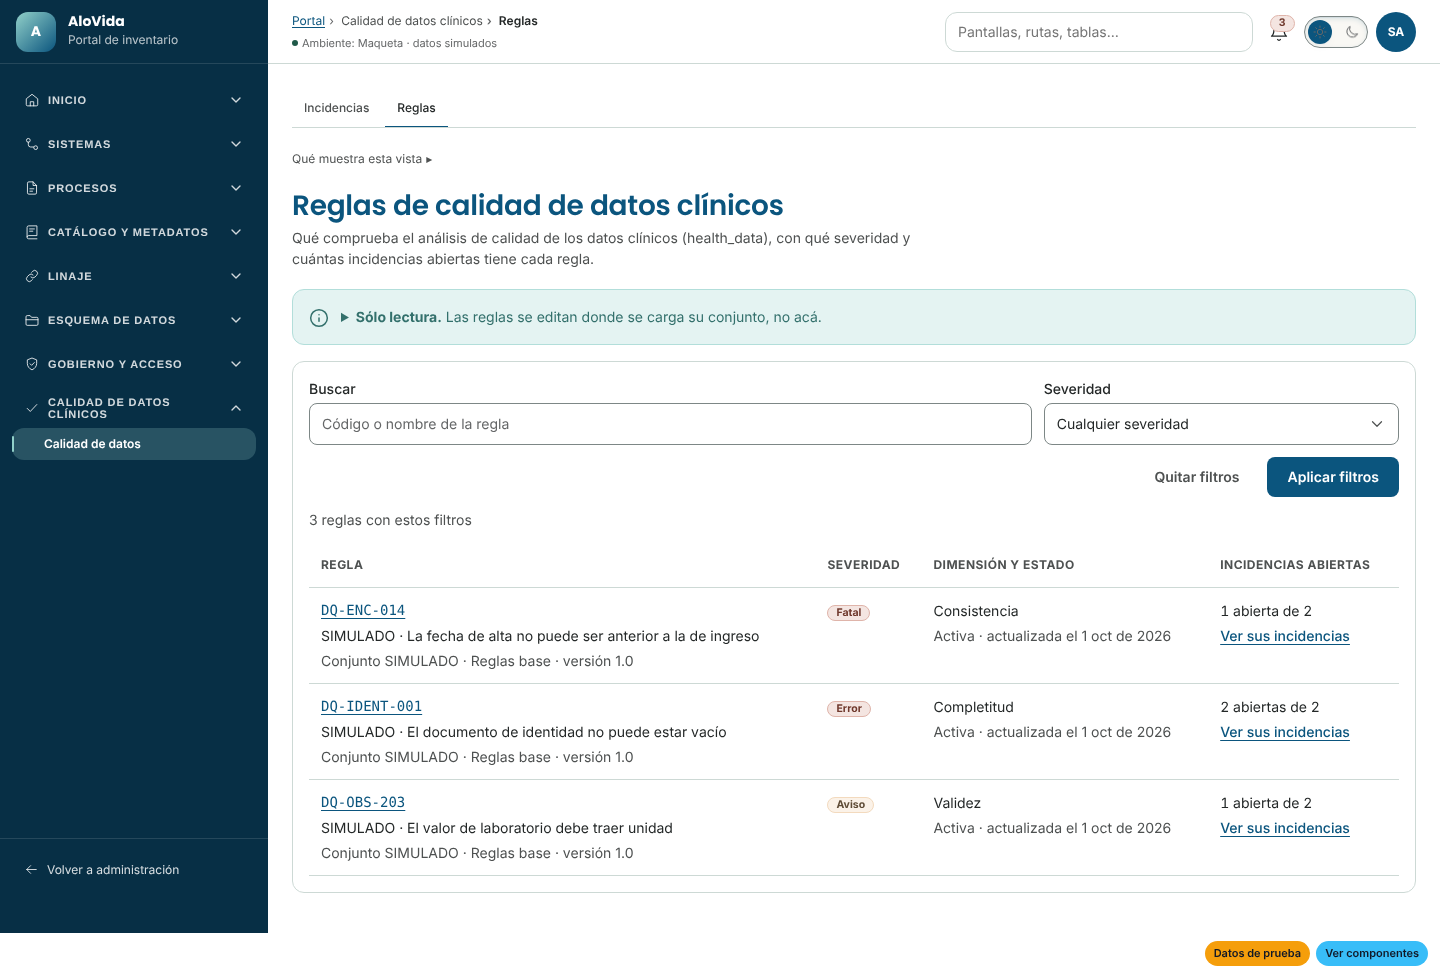
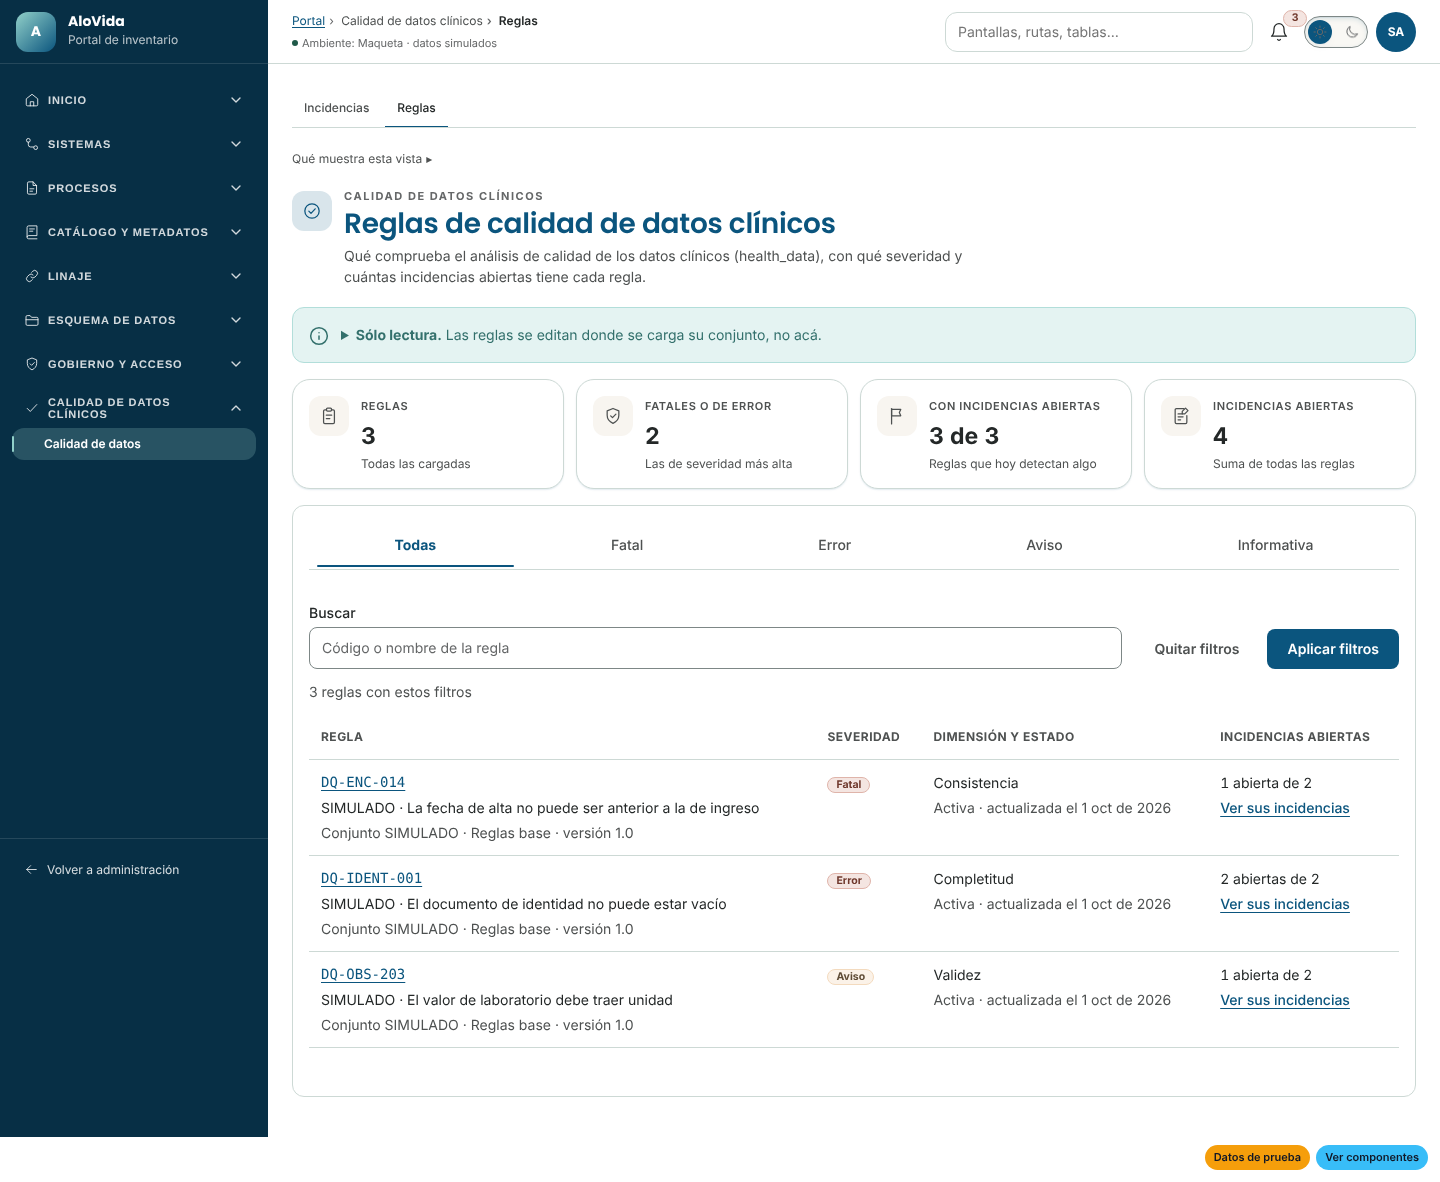
fix(portal): reglas de calidad — pestañas por severidad (escriben el mismo parámetro de la URL) y cifras sólo si la respuesta trae todas las reglas; ficha recapturada (revisión visual 1)
Claude-Session: https://claude.ai/code/session_015srVoda962hL6gd5RrH9vw

diff --git a/src/app/features/admin/portal/data-quality/rules/rules-page.ts b/src/app/features/admin/portal/data-quality/rules/rules-page.ts
@@ -1,3 +1,4 @@
+import { NgTemplateOutlet } from '@angular/common';
 import {
   ChangeDetectionStrategy,
   Component,
@@ -22,6 +23,9 @@ import { Badge } from '../../../../../shared/components/atoms/badge/badge';
 import { Link } from '../../../../../shared/components/atoms/link/link';
 import { Alert } from '../../../../../shared/components/molecules/alert/alert';
 import { Card } from '../../../../../shared/components/molecules/card/card';
+import { MetricCard } from '../../../../../shared/components/molecules/metric-card/metric-card';
+import { Tab } from '../../../../../shared/components/molecules/tabs/tab/tab';
+import { Tabs } from '../../../../../shared/components/molecules/tabs/tabs';
 import { DataTable } from '../../../../../shared/components/organisms/data-table/data-table';
 import type { ColumnDef } from '../../../../../shared/components/organisms/data-table/data-table.types';
 import { PageHeader } from '../../../../../shared/components/organisms/page-header/page-header';
@@ -30,7 +34,7 @@ import { dateOnly } from '../../governance/governance-labels';
 import { portalUrl } from '../../portal-nav';
 import { pagedList } from '../../support/paged-list';
 import { patchQuery, queryFilters, queryParamsSignal } from '../../support/route-query';
-import { SEVERITY_OPTIONS, conceptText, severityLabel } from '../quality-labels';
+import { conceptText, severityLabel } from '../quality-labels';
 
 const PAGE_SIZE = 25;
 const SCREEN = portalUrl('data-quality/rules');
@@ -55,7 +59,7 @@ function rulesQuery(values: Readonly<Record<(typeof URL_KEYS)[number], string>>)
  */
 @Component({
   selector: 'app-portal-quality-rules-page',
-  imports: [RouterLink, Badge, Link, Alert, Card, DataTable, PageHeader, FilterForm],
+  imports: [NgTemplateOutlet, RouterLink, Badge, Link, Alert, Card, MetricCard, Tab, Tabs, DataTable, PageHeader, FilterForm],
   templateUrl: './rules-page.html',
   styleUrl: './rules-page.css',
   changeDetection: ChangeDetectionStrategy.OnPush,
@@ -67,11 +71,18 @@ export class RulesPage {
 
   protected readonly values = queryFilters(queryParamsSignal(this.route), URL_KEYS);
   protected readonly severity = severityLabel;
+  /** La severidad se elige con las pestañas (viven en la URL como `severity`). */
+  protected readonly tabs = [
+    { value: '', label: 'Todas' },
+    ...QUALITY_SEVERITIES.map((value) => ({ value, label: severityLabel(value).label })),
+  ];
+  protected readonly tabIndex = computed(() =>
+    Math.max(0, this.tabs.findIndex((t) => t.value === (rulesQuery(this.values()).severity ?? ''))),
+  );
   protected readonly concept = conceptText;
   protected readonly day = dateOnly;
 
   protected readonly fields = computed<readonly FilterField[]>(() => [
-    { key: 'severity', label: 'Severidad', kind: 'select', options: SEVERITY_OPTIONS },
     { key: 'q', label: 'Buscar', kind: 'text', placeholder: 'Código o nombre de la regla' },
   ]);
 
@@ -79,6 +90,25 @@ export class RulesPage {
     (cursor) => this.client.listRules({ ...rulesQuery(this.values()), limit: PAGE_SIZE, ...(cursor ? { cursor } : {}) }),
     () => this.whenEmpty(),
   );
+
+  /**
+   * Cifras de arriba: sólo cuando la respuesta ya pedida trae TODAS las reglas (sin búsqueda ni
+   * pestaña, una sola página). Si no, no se muestran: contar sobre una página sería inventar.
+   */
+  protected readonly metrics = computed(() => {
+    const s = this.list.state();
+    const total = this.list.total();
+    const v = this.values();
+    if (s.status !== 'ready' || total === null || s.data.length !== total) return null;
+    if (v.q.trim() !== '' || this.tabIndex() !== 0) return null;
+    const rows = s.data;
+    return {
+      total,
+      withOpen: rows.filter((r) => r.openIssues > 0).length,
+      open: rows.reduce((n, r) => n + r.openIssues, 0),
+      serious: rows.filter((r) => r.severity === 'FATAL' || r.severity === 'ERROR').length,
+    };
+  });
 
   private readonly ruleCell = viewChild.required<TemplateRef<{ $implicit: QualityRule }>>('ruleCell');
   private readonly severityCell = viewChild.required<TemplateRef<{ $implicit: QualityRule }>>('severityCell');
@@ -104,12 +134,17 @@ export class RulesPage {
     });
   }
 
-  protected apply(filters: Readonly<Record<string, string>>): void {
-    void patchQuery(this.router, this.route, filters);
+  protected selectTab(index: number): void {
+    void patchQuery(this.router, this.route, { severity: this.tabs[index]?.value || null });
   }
 
+  protected apply(filters: Readonly<Record<string, string>>): void {
+    void patchQuery(this.router, this.route, { q: filters['q'] || null });
+  }
+
+  /** Quita la búsqueda; la pestaña (la severidad) se queda. */
   protected clear(): void {
-    void patchQuery(this.router, this.route, { severity: null, q: null });
+    void patchQuery(this.router, this.route, { q: null });
   }
 
   private whenEmpty(): EmptyViewState {

diff --git a/src/app/features/admin/portal/data-quality/rules/rules-page.html b/src/app/features/admin/portal/data-quality/rules/rules-page.html
@@ -18,30 +18,51 @@
     </details>
   </app-alert>
 
+  @if (metrics(); as m) {
+    <section class="rules__metrics" aria-label="Resumen de las reglas" data-testid="portal-quality-rules-metrics">
+      <app-metric-card label="Reglas" icon="clipboard" [value]="m.total" hint="Todas las cargadas" />
+      <app-metric-card label="Fatales o de error" icon="shield" [value]="m.serious" hint="Las de severidad más alta" />
+      <app-metric-card label="Con incidencias abiertas" icon="flag" [value]="m.withOpen + ' de ' + m.total" hint="Reglas que hoy detectan algo" />
+      <app-metric-card label="Incidencias abiertas" icon="note" [value]="m.open" hint="Suma de todas las reglas" />
+    </section>
+  }
+
   <app-card class="rules__card" variant="outlined" padding="md">
-    <div class="rules__section">
-      <app-governance-filter-form [fields]="fields()" [values]="values()" (applied)="apply($event)" (cleared)="clear()" />
-      @if (list.total(); as total) {
-        <p class="rules__total" data-testid="portal-quality-rules-total" aria-live="polite">
-          {{ total }} {{ total === 1 ? 'regla' : 'reglas' }} con estos filtros
-        </p>
+    <app-tabs [selectedIndex]="tabIndex()" (selectedIndexChange)="selectTab($event)">
+      @for (t of tabs; track t.value; let i = $index) {
+        <app-tab [label]="t.label">
+          @if (tabIndex() === i) {
+            <ng-container [ngTemplateOutlet]="body" />
+          }
+        </app-tab>
       }
-      <app-data-table
-        data-testid="portal-quality-rules-table"
-        caption="Reglas de calidad de datos clínicos"
-        [state]="list.state()"
-        [columns]="columns()"
-        [trackBy]="byId"
-        [rowLabel]="rowName"
-        [cursor]="list.cursor()"
-        stackedOnMobile
-        fitContainer
-        (cursorChanged)="list.move($event)"
-        (retry)="list.reload()"
-      />
-    </div>
+    </app-tabs>
   </app-card>
 </div>
+
+<ng-template #body>
+  <div class="rules__section">
+    <app-governance-filter-form [fields]="fields()" [values]="values()" (applied)="apply($event)" (cleared)="clear()" />
+    @if (list.total(); as total) {
+      <p class="rules__total" data-testid="portal-quality-rules-total" aria-live="polite">
+        {{ total }} {{ total === 1 ? 'regla' : 'reglas' }} con estos filtros
+      </p>
+    }
+    <app-data-table
+      data-testid="portal-quality-rules-table"
+      caption="Reglas de calidad de datos clínicos"
+      [state]="list.state()"
+      [columns]="columns()"
+      [trackBy]="byId"
+      [rowLabel]="rowName"
+      [cursor]="list.cursor()"
+      stackedOnMobile
+      fitContainer
+      (cursorChanged)="list.move($event)"
+      (retry)="list.reload()"
+    />
+  </div>
+</ng-template>
 
 <ng-template #ruleCell let-row>
   <div class="rules__cell">

diff --git a/src/app/features/admin/portal/data-quality/rules/rules-page.css b/src/app/features/admin/portal/data-quality/rules/rules-page.css
@@ -30,6 +30,7 @@
   display: flex;
   flex-direction: column;
   gap: var(--sp-3);
+  padding-block: var(--sp-4);
   min-inline-size: 0;
 }
 
@@ -56,4 +57,21 @@
   margin: 0;
   color: var(--text-secondary);
   font-size: var(--fs-data);
+}
+
+/* Cuatro cifras: de dos en dos en el teléfono y la tableta, en una fila desde escritorio. */
+.rules__metrics {
+  display: grid;
+  grid-template-columns: repeat(2, minmax(0, 1fr));
+  gap: var(--sp-3);
+}
+
+@media (min-width: 1024px) {
+  .rules__metrics {
+    grid-template-columns: repeat(4, minmax(0, 1fr));
+  }
+}
+
+.rules__metrics app-metric-card {
+  min-inline-size: 0;
 }
